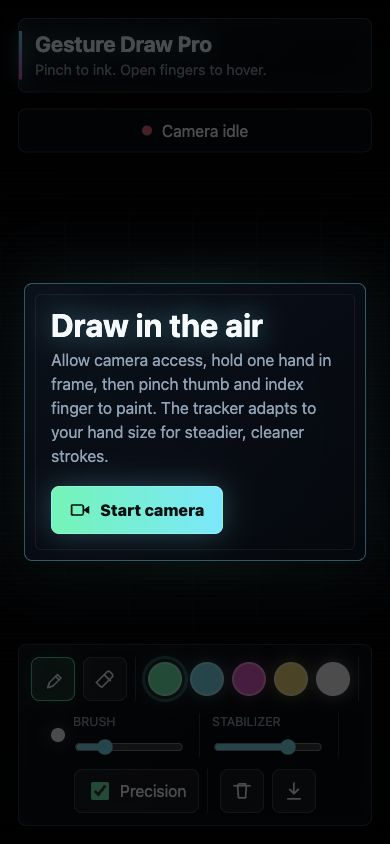
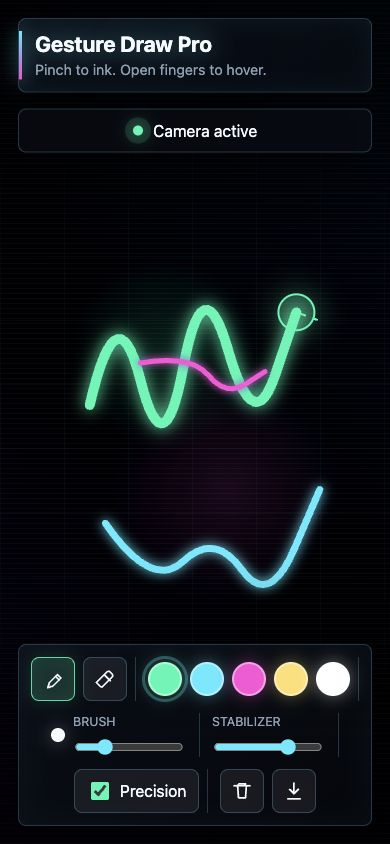
docs: expand project overview

diff --git a/styles.css b/styles.css
@@ -71,6 +71,13 @@ video {
   filter: saturate(1.12) contrast(1.08) brightness(0.78);
 }
 
+.preview-mode video {
+  background:
+    radial-gradient(circle at 58% 42%, rgba(32, 247, 178, 0.16), transparent 18%),
+    radial-gradient(circle at 42% 58%, rgba(255, 79, 216, 0.14), transparent 22%),
+    linear-gradient(135deg, #05111a, #05070b 55%, #12081b);
+}
+
 #drawCanvas {
   z-index: 2;
 }
@@ -94,6 +101,13 @@ video {
     linear-gradient(180deg, rgba(0, 0, 0, 0.68), transparent 30%),
     linear-gradient(0deg, rgba(0, 0, 0, 0.58), transparent 34%),
     radial-gradient(circle at 50% 48%, transparent 0 46%, rgba(0, 0, 0, 0.28) 100%);
+}
+
+.preview-mode .shade {
+  background:
+    linear-gradient(180deg, rgba(0, 0, 0, 0.46), transparent 31%),
+    linear-gradient(0deg, rgba(0, 0, 0, 0.48), transparent 34%),
+    radial-gradient(circle at 50% 48%, transparent 0 54%, rgba(0, 0, 0, 0.22) 100%);
 }
 
 .grid {

diff --git a/README.md b/README.md
@@ -1,14 +1,27 @@
 # Hand Gesture Drawing App
 
-A futuristic webcam drawing app that lets you paint in the air with hand gestures. It uses MediaPipe hand tracking in the browser, so the camera feed stays local to the user machine.
+![HTML](https://img.shields.io/badge/HTML-5-E34F26?style=for-the-badge&logo=html5&logoColor=white)
+![CSS](https://img.shields.io/badge/CSS-3-1572B6?style=for-the-badge&logo=css3&logoColor=white)
+![JavaScript](https://img.shields.io/badge/JavaScript-ES6-F7DF1E?style=for-the-badge&logo=javascript&logoColor=black)
+![MediaPipe](https://img.shields.io/badge/MediaPipe-Hand_Tracking-00A6FF?style=for-the-badge)
+
+A futuristic webcam drawing app that lets users paint in the air with hand gestures. It tracks the hand directly in the browser, turns a thumb-index pinch into brush input, and keeps the camera feed local to the device.
 
 ## Preview
 
+### Desktop
+
 ![Gesture Draw Pro desktop preview](assets/screenshots/desktop-preview.jpg)
+
+### Mobile
 
 <p align="center">
   <img src="assets/screenshots/mobile-preview.jpg" alt="Gesture Draw Pro mobile preview" width="320" />
 </p>
+
+## Overview
+
+Gesture Draw Pro is built as a browser-based creative tool. The app detects a single hand through the webcam, maps the index finger position to the canvas, and uses a pinch gesture to decide when ink should touch the screen. The interface is designed like a futuristic HUD so the user can see camera status, pinch strength, stabilizer level, and active drawing mode while using the app.
 
 ## Features
 
@@ -23,6 +36,30 @@ A futuristic webcam drawing app that lets you paint in the air with hand gesture
 - Clear canvas action
 - Download drawing as a PNG
 - Responsive HUD-style interface
+
+## Controls
+
+| Control | Purpose |
+| --- | --- |
+| Pinch gesture | Starts drawing or erasing |
+| Open hand | Moves the pointer without drawing |
+| Pen | Draws neon strokes |
+| Eraser | Removes parts of the drawing |
+| Color swatches | Changes brush color |
+| Brush slider | Adjusts stroke thickness |
+| Stabilizer slider | Smooths hand movement |
+| Precision mode | Makes pinch detection tighter |
+| Clear | Resets the canvas |
+| Download | Saves the artwork as an image |
+
+## How It Works
+
+1. The browser opens the webcam after the user gives permission.
+2. MediaPipe detects hand landmarks from the video frame.
+3. The app tracks the index finger as the drawing pointer.
+4. Thumb-to-index distance is normalized by hand size for better accuracy.
+5. Pinch strength controls whether the app draws, erases, or hovers.
+6. Motion smoothing reduces jitter before strokes are rendered on canvas.
 
 ## Tech Stack
 
@@ -66,6 +103,10 @@ Allow camera access when the browser asks for permission.
 ## Browser Support
 
 Use a modern Chromium-based browser for the best camera and WebAssembly performance.
+
+## Screenshots
+
+The screenshots in this README are captured from the app's preview state so the UI, drawing canvas, and gesture HUD are visible without requiring camera permissions.
 
 ## Project Structure
 